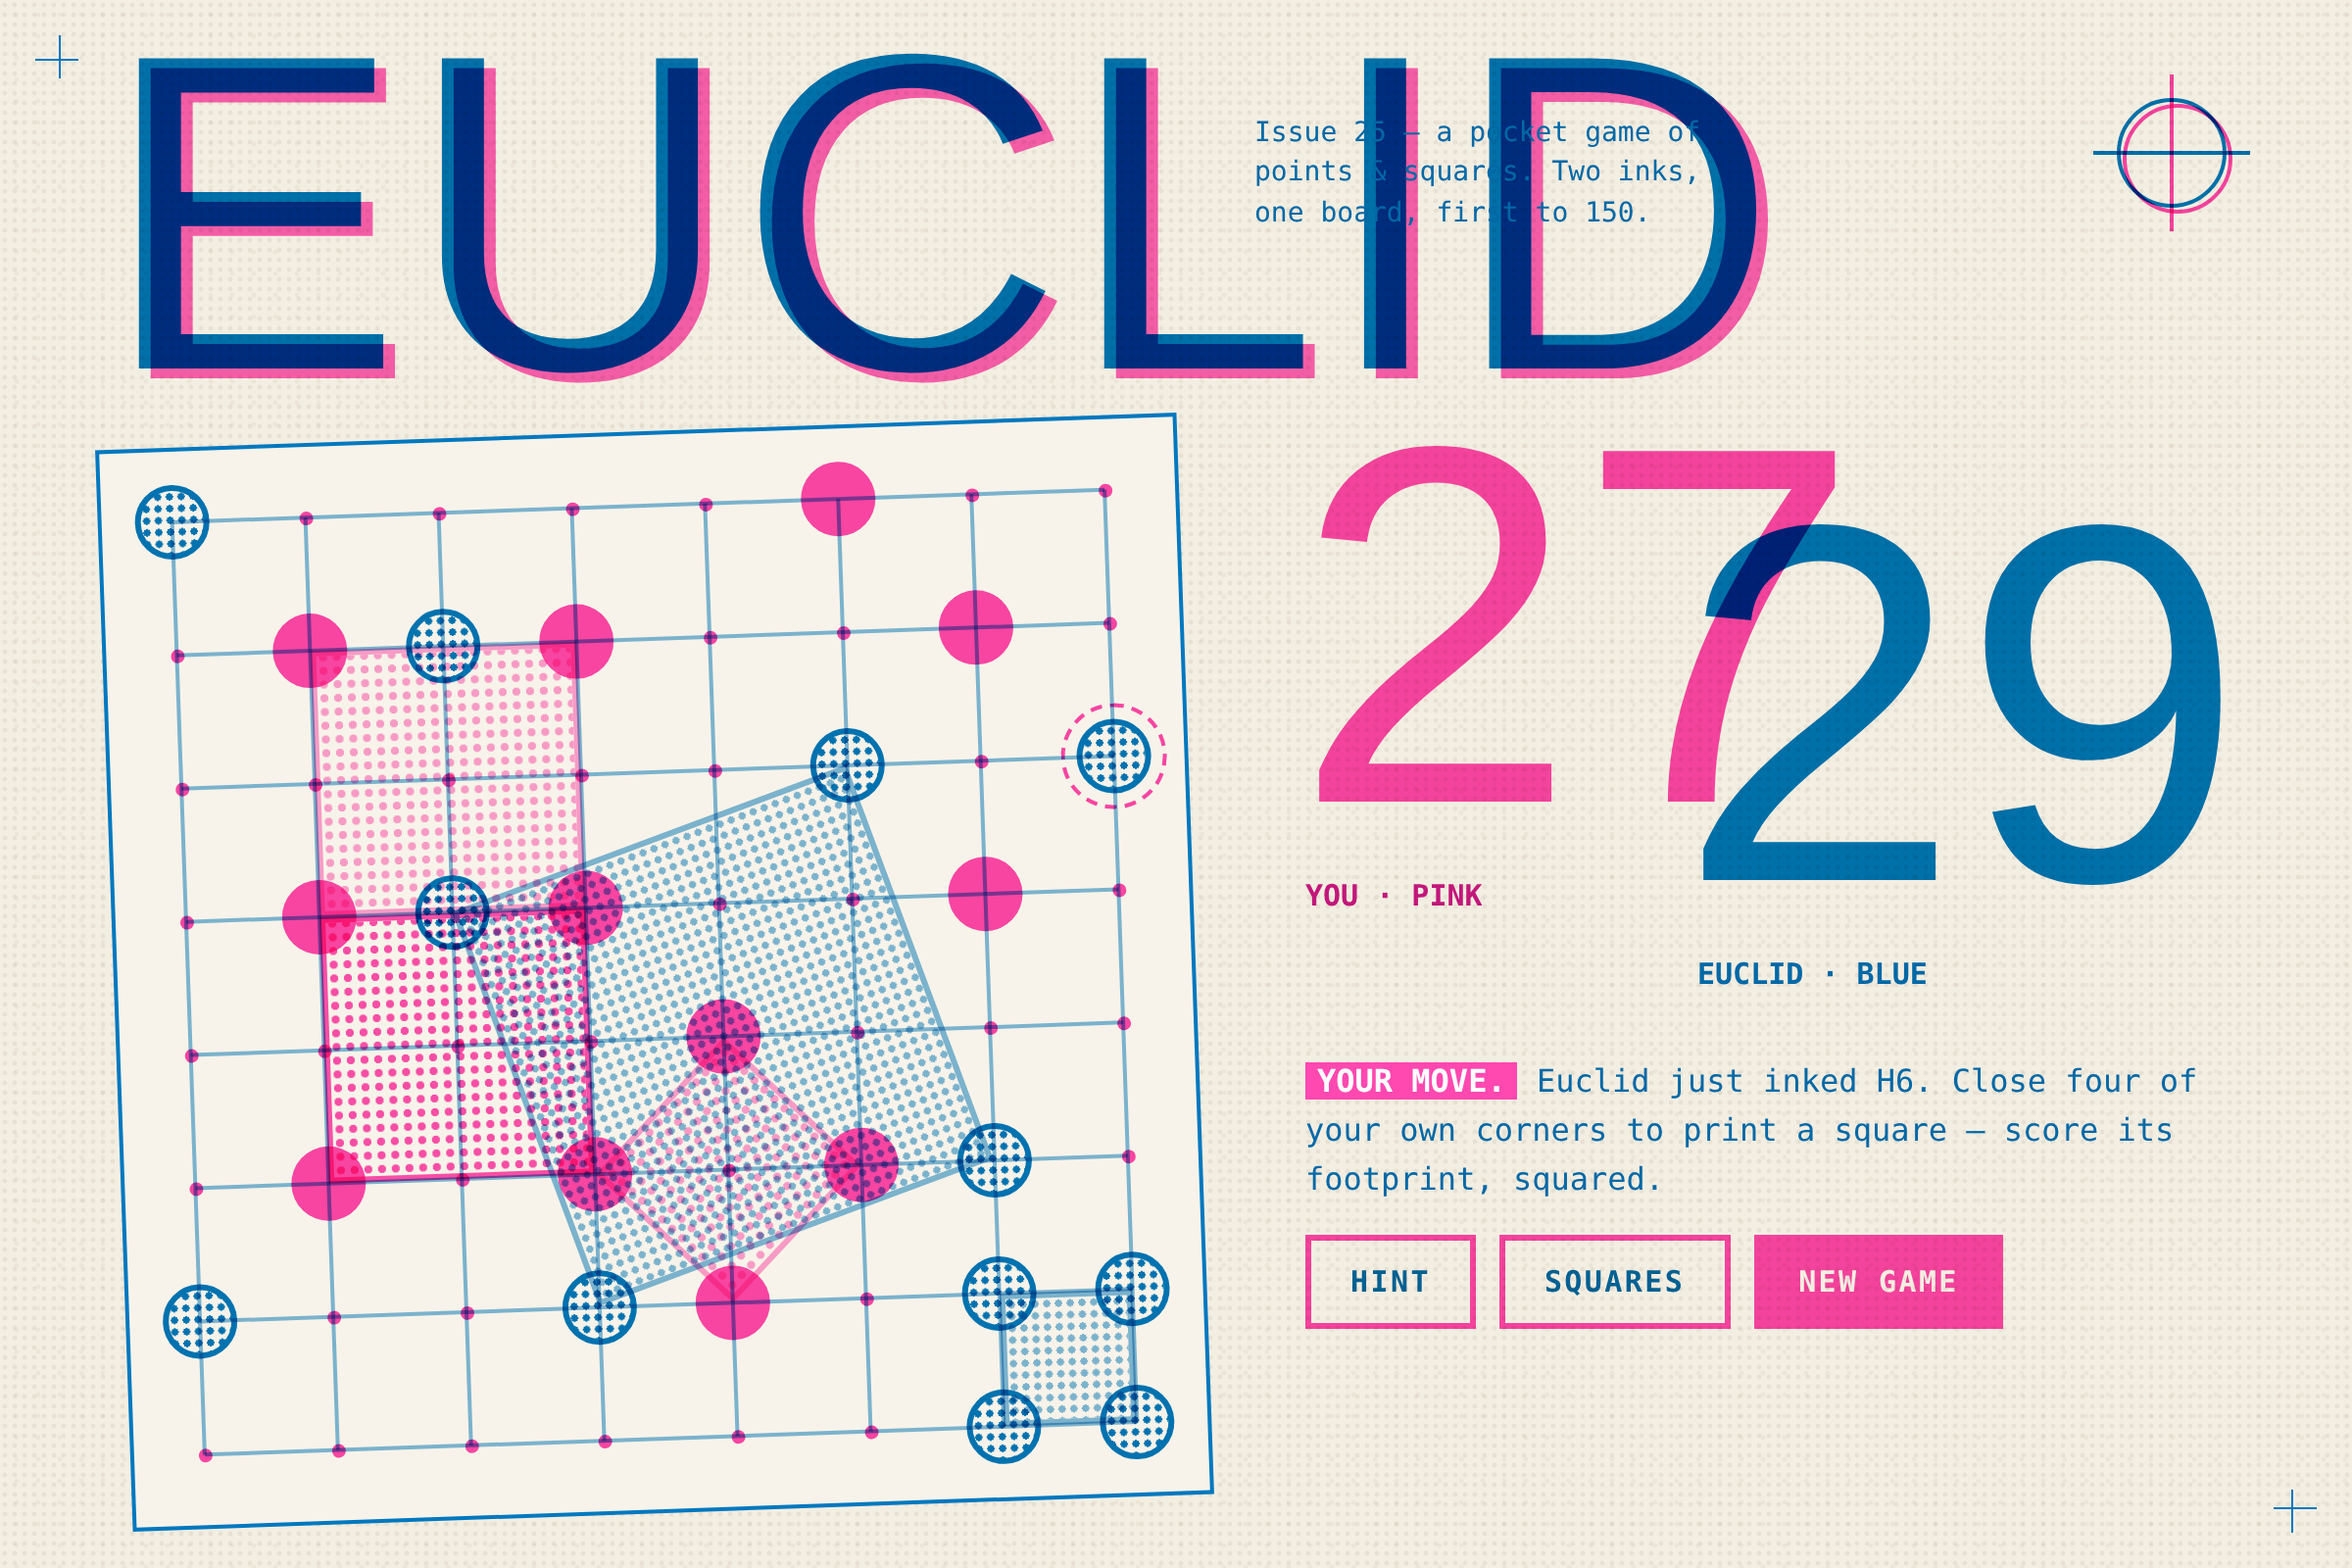
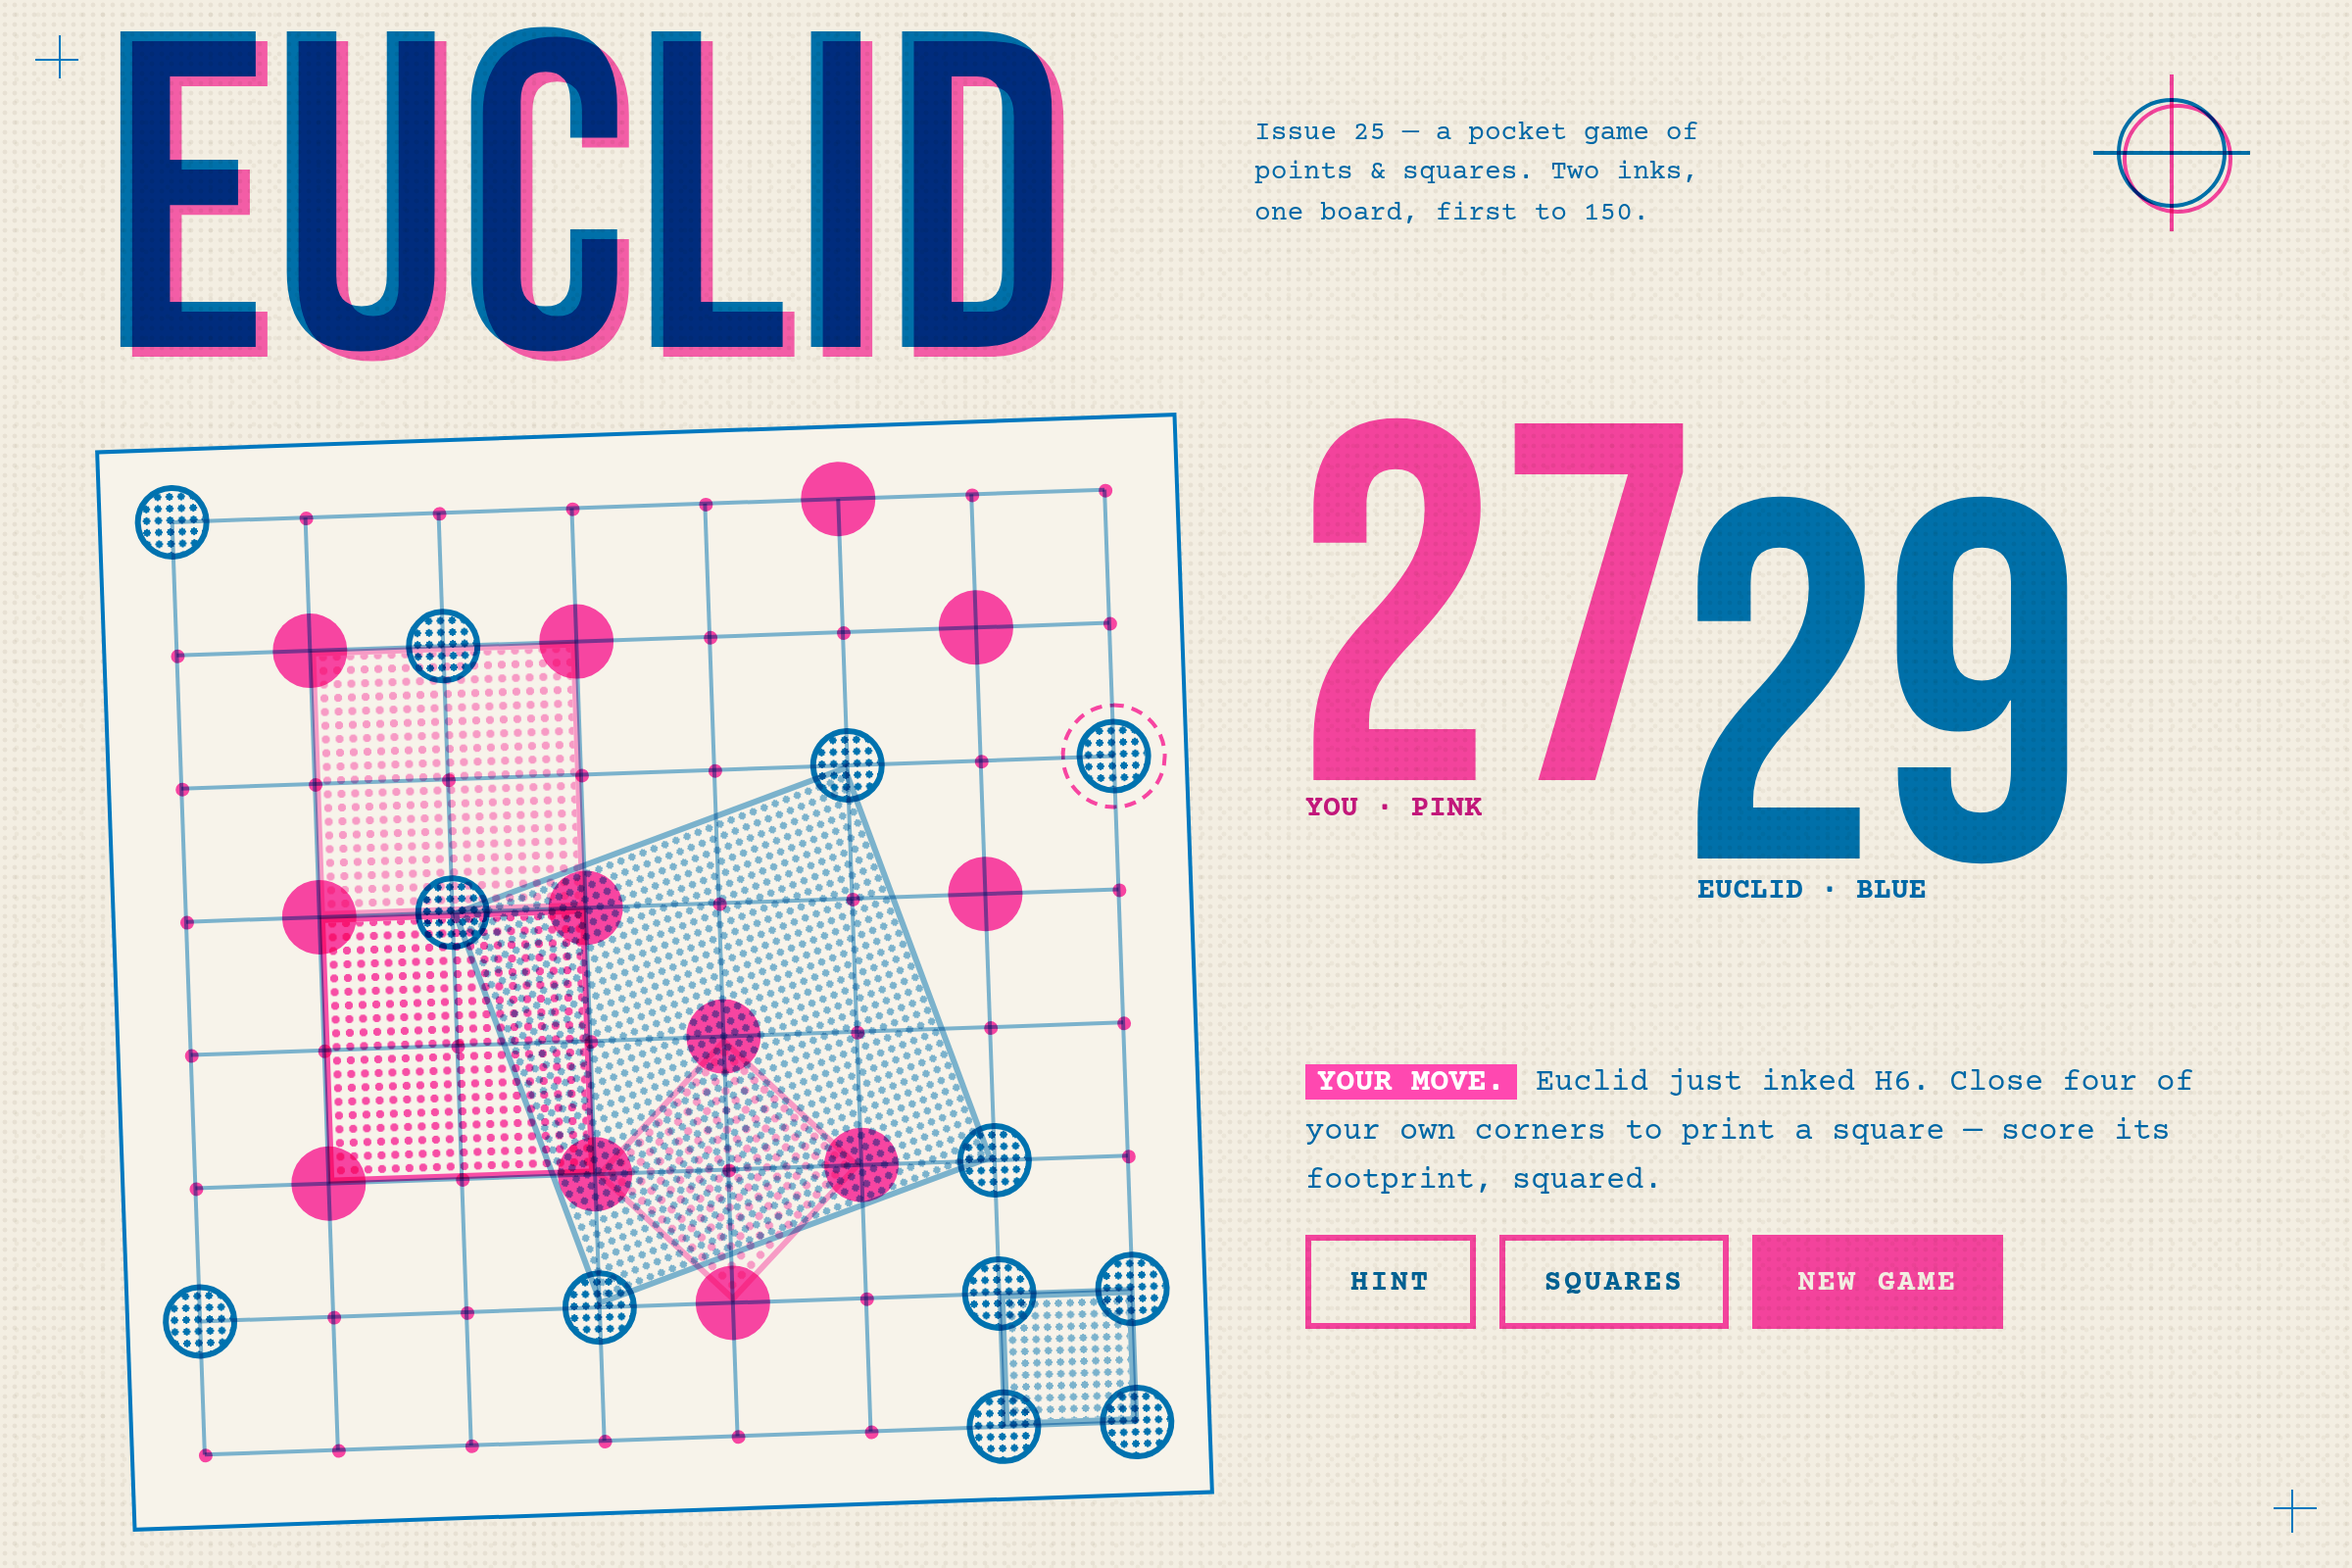
Seat the Riso score labels under their numerals

diff --git a/designs/source/08-riso.dc.html b/designs/source/08-riso.dc.html
@@ -66,8 +66,8 @@ a{color:#0078BF}a:hover{color:#004E7C}
   <div style="position: absolute; left: 660px; top: 190px; width: 500px; height: 300px">
     <div class="ink" style="position: absolute; left: 0; top: 0; font-family: 'Bebas Neue', sans-serif; font-size: 260px; line-height: 1; color: #FF48B0">27</div>
     <div class="ink" style="position: absolute; left: 196px; top: 40px; font-family: 'Bebas Neue', sans-serif; font-size: 260px; line-height: 1; color: #0078BF">29</div>
-    <div style="position: absolute; left: 6px; top: 258px; font-size: 15px; font-weight: 700; color: #C2177A">YOU · PINK</div>
-    <div style="position: absolute; left: 206px; top: 298px; font-size: 15px; font-weight: 700; color: #0068A6">EUCLID · BLUE</div>
+    <div style="position: absolute; left: 6px; top: 214px; font-size: 15px; font-weight: 700; color: #C2177A">YOU · PINK</div>
+    <div style="position: absolute; left: 206px; top: 256px; font-size: 15px; font-weight: 700; color: #0068A6">EUCLID · BLUE</div>
   </div>
 
   <div style="position: absolute; left: 666px; top: 540px; width: 470px; display: flex; flex-direction: column; gap: 16px">
